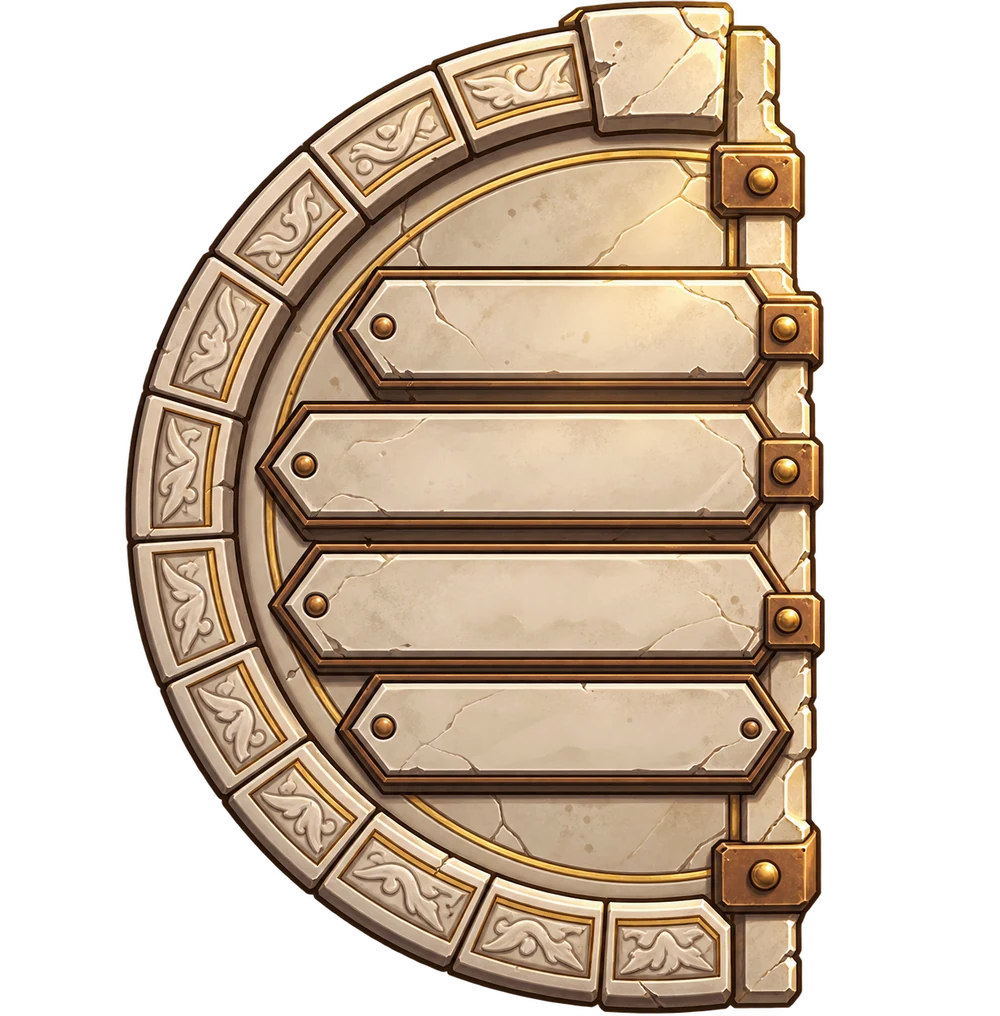
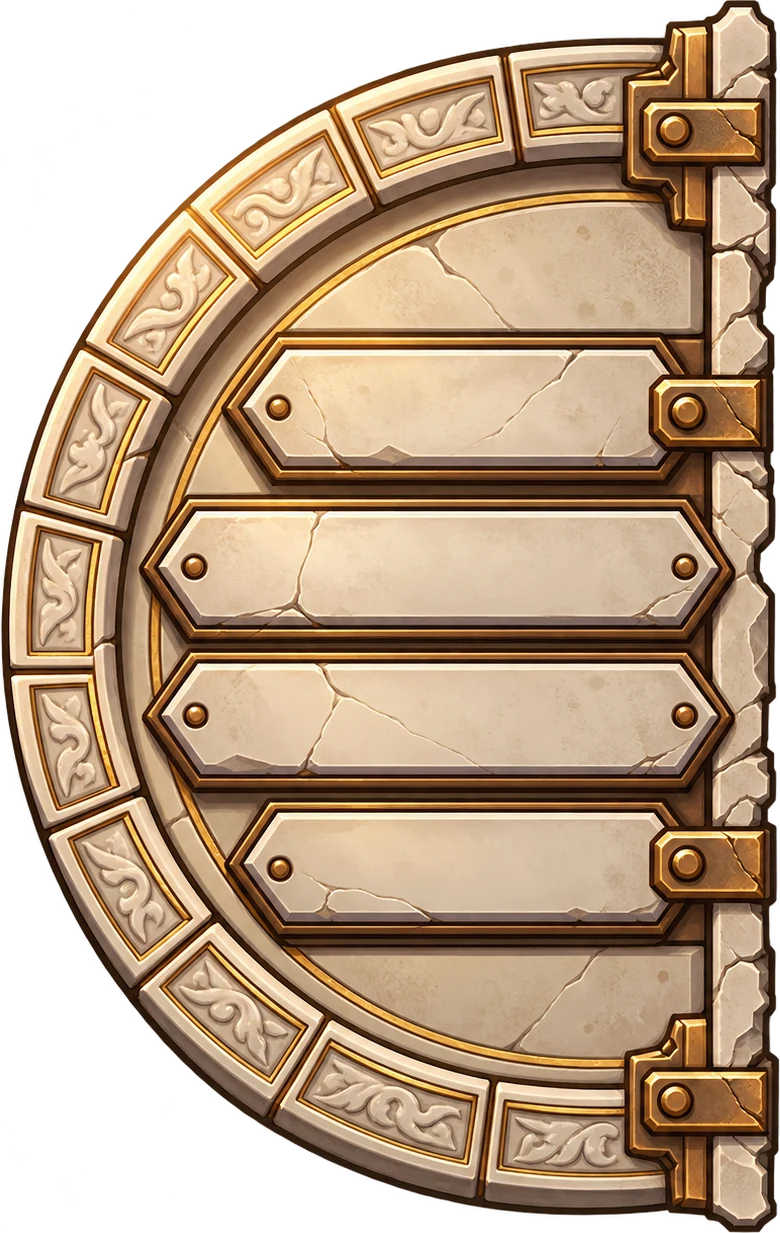
Rückmeldung 1.22.0: Steintür schließt als Flügeltür an der Naht, Leuchtrahmen folgt dem gemalten Kartenrahmen
Claude-Session: https://claude.ai/code/session_01X3GF6hmi6qq4P1brH55Y8v

diff --git a/quellcode/assets/game/view/match/render.js b/quellcode/assets/game/view/match/render.js
@@ -195,9 +195,17 @@ R.card=(c,card,x,y,w=200,h=282,opts={})=>{const legend=card.rarity==='legendary'
 // Cache card faces once (plain and golden). Only transforms and shadows change while dragging.
 // With a pixel density above 1.2 the faces are cached larger, so a dragged card (258 units) stays sharp.
 // The aura follows the temple gate: green when playable, golden yellow when a condition is met (AP 3.2), gold when selected.
-const gateGlow=(color,blur)=>R.sprite('gateglow:'+[color,blur],-blur*2,-blur*2,200+blur*4,282+blur*4,g=>{g.shadowColor=color;g.shadowBlur=blur;gatePath(g);g.fillStyle=color;g.fill();});
+// Feedback on 1.22.0: on Astra's painted frames it takes their silhouette (frame plus art window) – the drawn gate outline
+// stood askew above the painted gable. Drawn twice: the soft shadow alone was too faint on the wooden rail.
+const frameKey=(card,gold)=>(card.building?'building':card.type==='spell'?'spell':'minion')+'-'+(gold?'gold':'normal');
+const gateGlow=(color,blur,key)=>{const frame=CHS.ui['kartenrahmen-'+key],box=frame&&window.CHB?.windows?.[key];
+ return R.sprite('gateglow:'+[color,blur,box?key:''],-blur*2,-blur*2,200+blur*4,282+blur*4,g=>{g.shadowColor=color;g.shadowBlur=blur;
+  if(!box){gatePath(g);g.fillStyle=color;g.fill();return;}
+  const w=frame.naturalWidth,h=frame.naturalHeight,cv=document.createElement('canvas');cv.width=w;cv.height=h;const m=cv.getContext('2d');
+  m.drawImage(frame,0,0);m.fillRect(box[0]*w/200,box[1]*h/282,(box[2]-box[0])*w/200,(box[3]-box[1])*h/282);
+  m.globalCompositeOperation='source-in';m.fillStyle=color;m.fillRect(0,0,w,h);g.drawImage(cv,0,0,200,282);g.drawImage(cv,0,0,200,282);});};
 R.cardCache={};R.fastCard=(c,card,x,y,w,h,opts={})=>{const cw=R.scale>1.2?400:300,gold=!!opts.gold,key=card.id+':'+cw+(gold?':gold':'');let im=R.cardCache[key];if(!im){im=document.createElement('canvas');im.width=cw;im.height=Math.round(cw*1.41);R.card(im.getContext('2d'),card,0,0,cw,im.height,{gold});R.cardCache[key]=im;}
- if(opts.glow){const sp=opts.selected?gateGlow('#ffc653',20):opts.glow==='boost'?gateGlow('#ffd23a',18):gateGlow('#71ff56',12);c.save();c.translate(x,y);c.scale(w/200,h/282);R.blit(c,sp);c.restore();}c.drawImage(im,x,y,w,h);
+ if(opts.glow){const fk=frameKey(card,gold),sp=opts.selected?gateGlow('#ffc653',20,fk):opts.glow==='boost'?gateGlow('#ffd23a',18,fk):gateGlow('#71ff56',12,fk);c.save();c.translate(x,y);c.scale(w/200,h/282);R.blit(c,sp);c.restore();}c.drawImage(im,x,y,w,h);
  // A changed cost (Marco Polo, Caterina, Andraste) covers the printed crystal: green when cheaper.
  if(opts.cost!=null&&opts.cost!==card.cost){const k=w/200;c.save();c.translate(x,y);c.scale(k,k);etherCrystal(c,25,34,22,opts.cost,opts.cost<card.cost?'green':'red');c.restore();}};
 R.smoothed={};R.smooth=(id,x,y,dt)=>{const old=R.smoothed[id]||{x,y},q=1-Math.exp(-dt/58);const p={x:old.x+(x-old.x)*q,y:old.y+(y-old.y)*q};R.smoothed[id]=p;return p;};

diff --git a/quellcode/assets/game/view/css/astra.css b/quellcode/assets/game/view/css/astra.css
@@ -25,8 +25,9 @@
 .mulligan-card .rod{visibility:hidden}
 
 /* Astra-Bild (AP A.2): steinplatten – the round stone door closes over the drawn wall. */
-.slab .slab-art{position:absolute;top:0;height:100%;width:auto;z-index:1}
-.slab-l .slab-art{right:-6px}.slab-r .slab-art{left:-6px}
+/* Feedback on 1.22.0: both wings are cut to the door itself and meet with their stone bars at the seam – no wall between. */
+.slab .slab-art{position:absolute;top:4%;height:92%;width:auto;z-index:1}
+.slab-l .slab-art{right:0}.slab-r .slab-art{left:0}
 .slab:has(.slab-art):after,.slab:has(.slab-art):before{display:none}
 
 /* Astra-Bild: waehrung – gold coin, star dust and card pack in the wallet (vector pictures). */

diff --git a/quellcode/assets/game/model/bilder.js b/quellcode/assets/game/model/bilder.js
@@ -222,8 +222,8 @@ const api={cards:{
   praesentationspodest:[1000, 750],
   kartenbuch:[1539, 1022],
   startbefehle:[480, 832],
-  "steinplatten-links":[1000, 1016],
-  "steinplatten-rechts":[1000, 1014]
+  "steinplatten-links":[780, 1233],
+  "steinplatten-rechts":[780, 1233]
 },windows:{
   "building-gold":[44.9, 45.4, 155.5, 165.6],
   "building-normal":[45.3, 53.8, 154.7, 158.4],

diff --git a/werkzeuge/astra_bilder.py b/werkzeuge/astra_bilder.py
@@ -28,7 +28,7 @@ import shutil
 import subprocess
 import sys
 
-from PIL import Image
+from PIL import Image, ImageOps
 
 ROOT = os.path.normpath(os.path.join(os.path.dirname(os.path.abspath(__file__)), '..'))
 NEU = os.path.join(ROOT, 'ungenutzte_assets/neue_astra_assets')
@@ -85,8 +85,11 @@ UI = {
     'praesentationspodest': (f'{T1}/ui-art/praesentationspodest.png', 1000),
     'kartenbuch': (f'{T1}/ui-art/kartenbuch.png', 1539),
     'startbefehle': (f'{T1}/ui-art/startbefehle.png', 480),
-    'steinplatten-links': (f'{T1}/ui-art/steinplatten-links.png', 1000),
-    'steinplatten-rechts': (f'{T1}/ui-art/steinplatten-rechts.png', 1000),
+    # Rückmeldung zu 1.22.0: Astras zwei Hälften passen nicht zueinander (andere Rundung, Platten, Scharniere) und standen mit
+    # Wand dazwischen. Beide Flügel kommen jetzt aus der rechten Hälfte, ohne leeren Rand, der linke gespiegelt – so treffen
+    # sich die Steinleisten an der Naht und die Tür schließt symmetrisch.
+    'steinplatten-links': (f'{T1}/ui-art/steinplatten-rechts.png', 780, 'gespiegelt'),
+    'steinplatten-rechts': (f'{T1}/ui-art/steinplatten-rechts.png', 780, 'beschnitten'),
 }
 # Vektorbilder, die unverändert nach assets/ui/ kommen (heute nur die Währungen; die übrigen flachen Vektoren aus Teil 1
 # sind schlichter als die Zeichnungen im Spiel und bleiben ungenutzt, siehe README AP A.2).
@@ -149,10 +152,14 @@ def ui_images():
     out = os.path.join(GAME, 'assets/ui')
     os.makedirs(out, exist_ok=True)
     sizes = {}
-    for name, (src, width) in UI.items():
+    for name, (src, width, *how) in UI.items():
         im = Image.open(os.path.join(NEU, src))
         im.load()
         im = im.convert('RGBA' if 'A' in im.getbands() else 'RGB')
+        if how:
+            im = im.crop(im.getchannel('A').point(lambda v: 255 if v > 8 else 0).getbbox())
+            if how[0] == 'gespiegelt':
+                im = ImageOps.mirror(im)
         h = round(im.height * width / im.width)
         im.resize((width, h), Image.LANCZOS).save(os.path.join(out, name + '.webp'), 'WEBP', quality=88, method=6)
         sizes[name] = [width, h]
